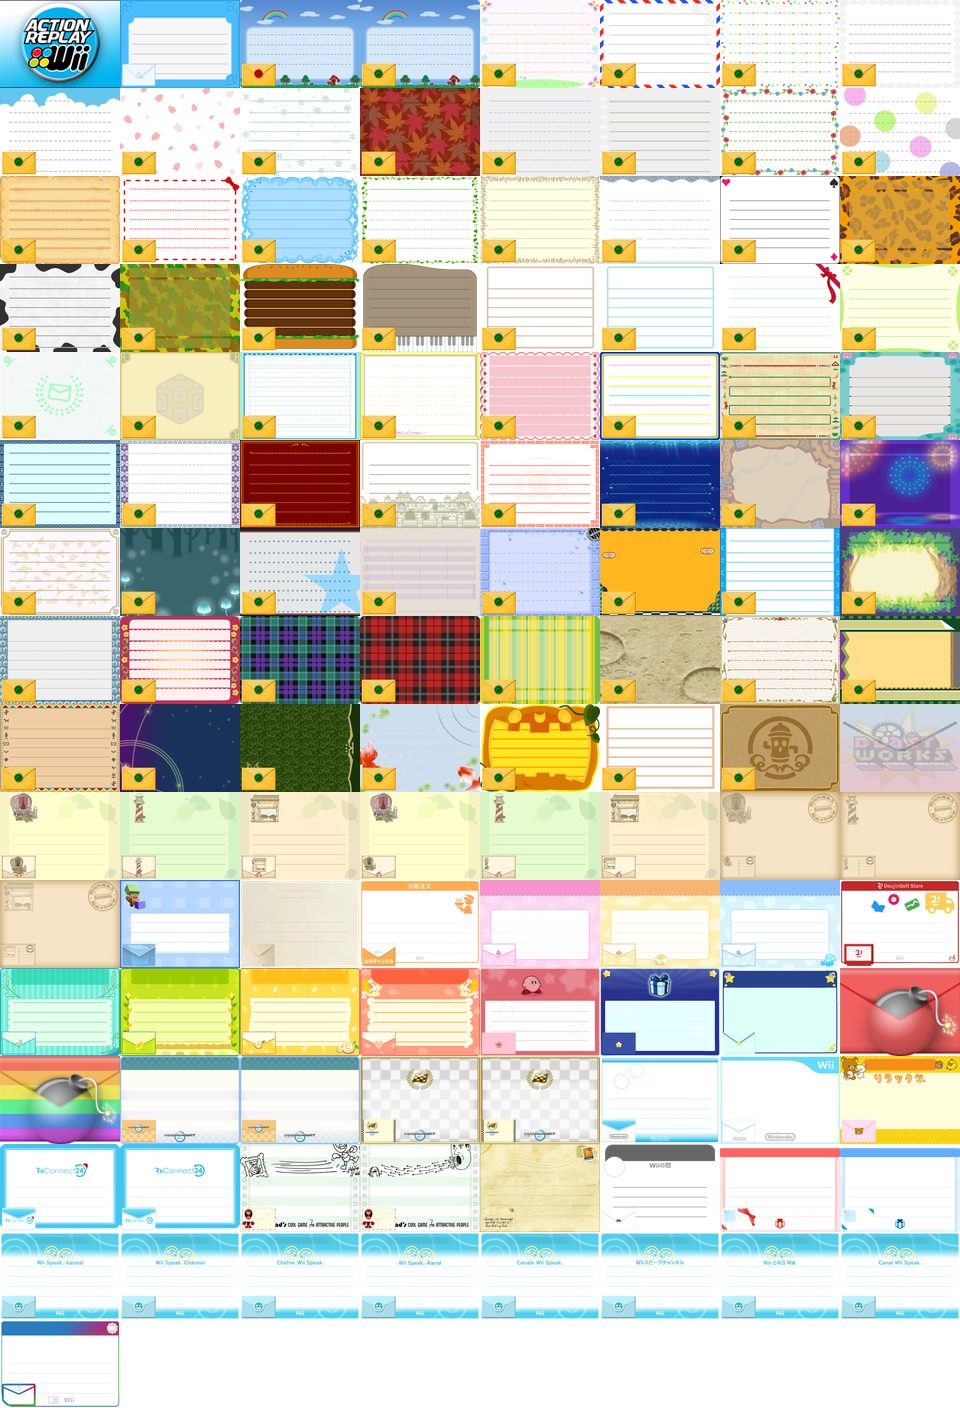
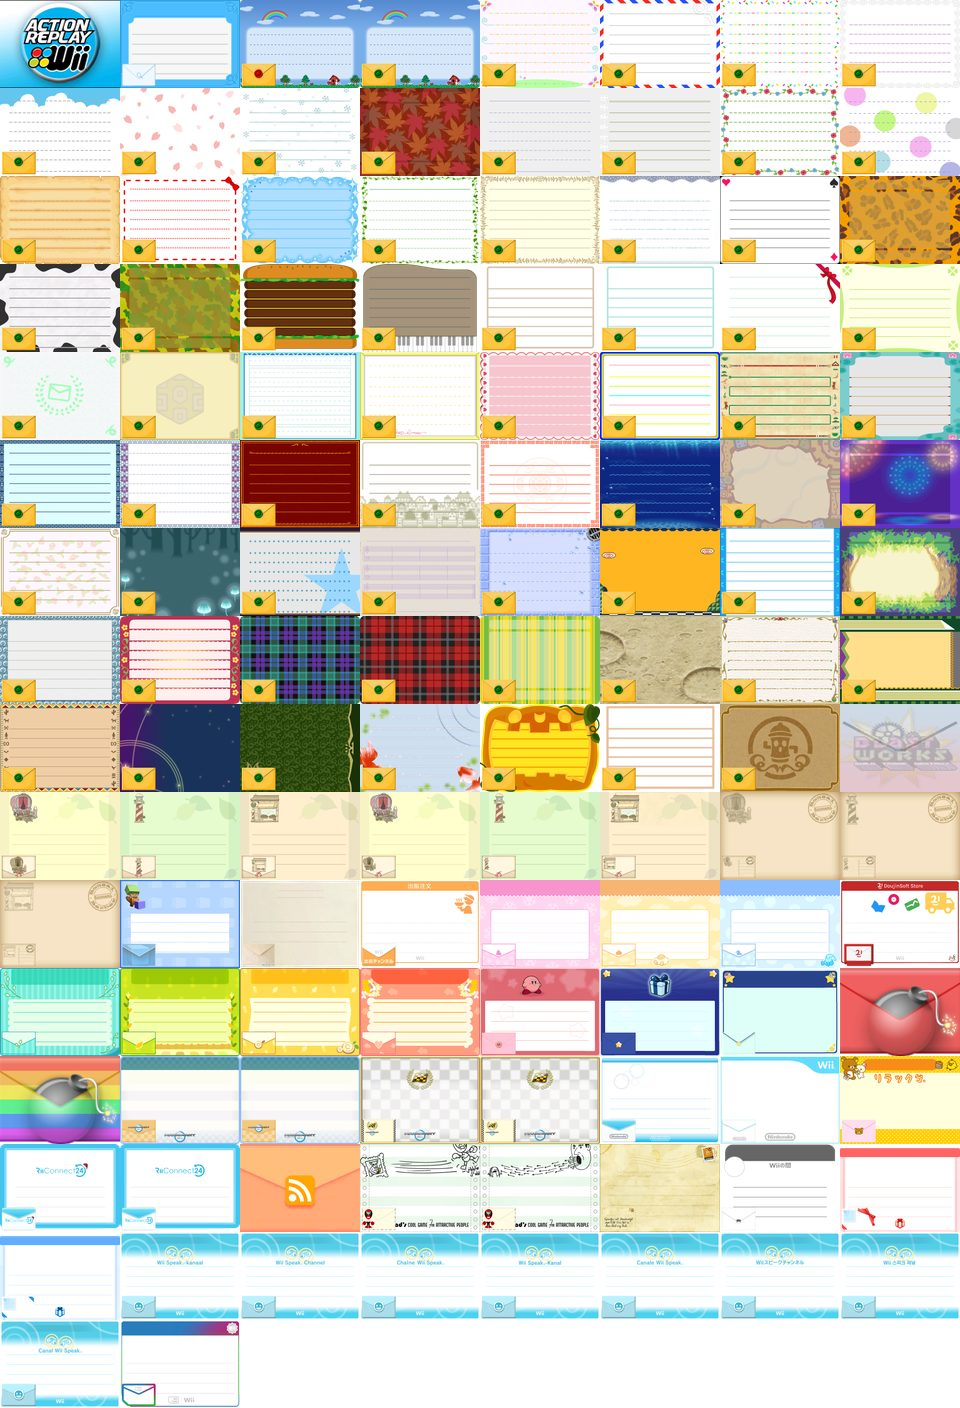
Add RSSMii to the letterhead gallery

Changed region(s): [[0.25, 0.8125, 1.0, 0.875], [0.0, 0.875, 0.25, 1.0]]

diff --git a/wii/source/letterhead_ids.h b/wii/source/letterhead_ids.h
@@ -111,6 +111,7 @@ static const char *const LH_SHEET_IDS[] = {
     "relaxuma-minna-de-goyururi-seikatsu",
     "riiconnect24-christmas",
     "riiconnect24-normal",
+    "rssmii",
     "strong-bads-cool-game-for-attractive-people-1",
     "strong-bads-cool-game-for-attractive-people-2",
     "toki-tori",

diff --git a/wiiu/source/letterhead_ids.h b/wiiu/source/letterhead_ids.h
@@ -111,6 +111,7 @@ static const char *const LH_SHEET_IDS[] = {
     "relaxuma-minna-de-goyururi-seikatsu",
     "riiconnect24-christmas",
     "riiconnect24-normal",
+    "rssmii",
     "strong-bads-cool-game-for-attractive-people-1",
     "strong-bads-cool-game-for-attractive-people-2",
     "toki-tori",
